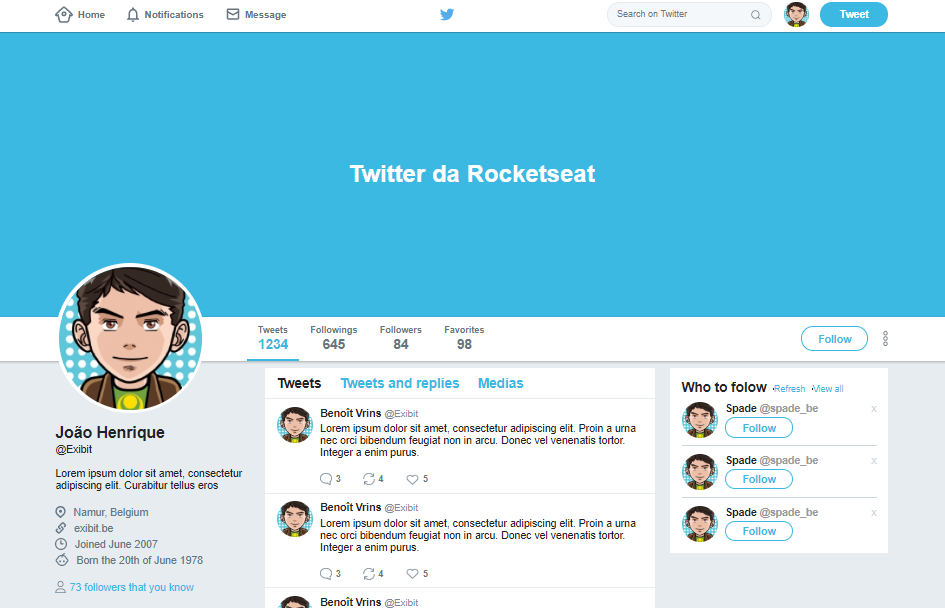
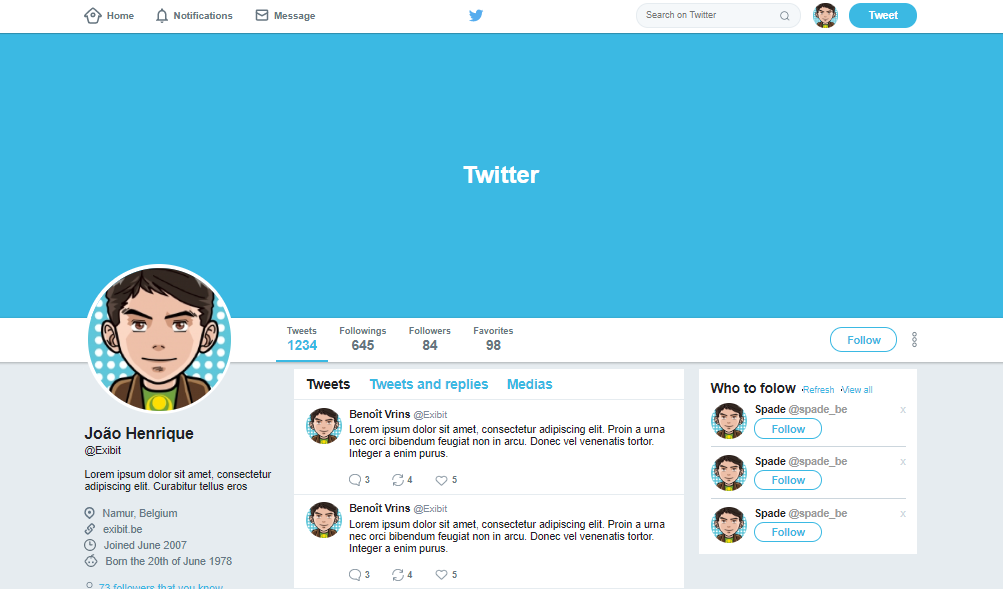
consertando o readme

Changed region(s): [[0.0, 0.4278, 1.0, 1.0], [0.0, 0.0, 1.0, 0.0611], [0.3683, 0.275, 0.6444, 0.3362]]

diff --git a/index.html b/index.html
@@ -31,7 +31,7 @@
     </header>
 
     <div class="banner">
-      <h1>Twitter da Rocketseat</h1>
+      <h1>Twitter</h1>
     </div>
 
     <div class="bar">

diff --git a/README.md b/README.md
@@ -1,6 +1,6 @@
-# GoBarber
+# Twitter Clone
 
-Sistema básico para agendamento de serviços de barbeiro.
+Clone do layout Twitter, utilizando html, css e flexbox;
 
 ## Getting Started
 
